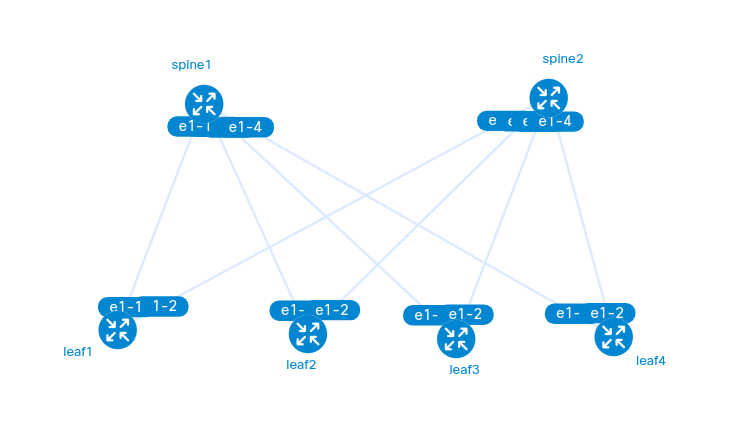
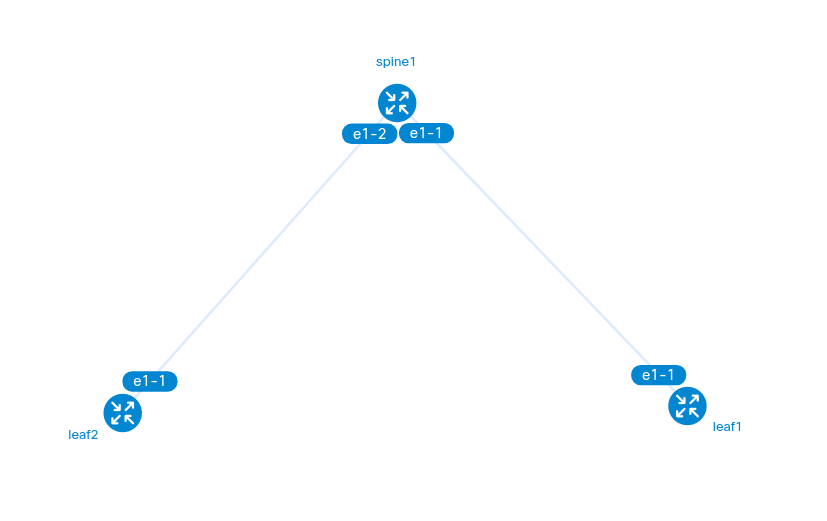
Scale lab topology from 6 to 3 devices (1 spine + 2 leaves) and update all documentation

diff --git a/src/backup.py b/src/backup.py
@@ -86,6 +86,31 @@ class ConfigBackup:
             f"Retention: {retention_days} days"
         )
 
+    def _substitute_env_vars(self, value: str) -> str:
+        """
+        Substitute environment variables in string values.
+
+        Replaces ${VAR_NAME} with the value of the environment variable VAR_NAME.
+
+        Args:
+            value: String that may contain environment variable placeholders
+
+        Returns:
+            String with environment variables substituted
+        """
+        if not isinstance(value, str):
+            return value
+
+        import re
+        # Match ${VAR_NAME} pattern
+        pattern = r'\$\{([^}]+)\}'
+
+        def replace_var(match):
+            var_name = match.group(1)
+            return os.environ.get(var_name, match.group(0))
+
+        return re.sub(pattern, replace_var, value)
+
     def _merge_device_settings(self, device: Dict[str, Any]) -> Dict[str, Any]:
         """
         Merge device-specific settings with global settings.
@@ -107,12 +132,14 @@ class ConfigBackup:
         # Create merged device config
         merged = device.copy()
 
-        # Add credentials from global settings if not in device
+        # Add credentials from global settings if not in device (with env var substitution)
         if 'username' not in merged:
-            merged['username'] = settings.get('default_username')
+            username = settings.get('default_username')
+            merged['username'] = self._substitute_env_vars(username)
 
         if 'password' not in merged:
-            merged['password'] = settings.get('default_password')
+            password = settings.get('default_password')
+            merged['password'] = self._substitute_env_vars(password)
 
         if 'timeout' not in merged:
             merged['timeout'] = settings.get('connection_timeout', 10)

diff --git a/netconfig.py b/netconfig.py
@@ -7,6 +7,15 @@ from datetime import datetime
 from pathlib import Path
 from typing import Dict, List, Any, Optional
 
+# Load environment variables from .env file
+try:
+    from dotenv import load_dotenv
+    env_path = Path(__file__).parent / '.env'
+    load_dotenv(dotenv_path=env_path)
+except ImportError:
+    # python-dotenv not installed, skip auto-loading
+    pass
+
 # Add project root to Python path
 project_root = Path(__file__).parent
 if str(project_root) not in sys.path:
@@ -59,7 +68,7 @@ Examples:
   netconfig backup --all
       Backup all devices in parallel
 
-  netconfig backup --device spine1 --device spine2
+  netconfig backup --device spine1 --device leaf1
       Backup specific devices
 
   netconfig backup --role spine --no-parallel

diff --git a/src/rollback.py b/src/rollback.py
@@ -850,7 +850,7 @@ class ConfigRollback:
         Example:
             devices_and_backups = [
                 (device1, "configs/backups/spine1_20250203_143022.cfg"),
-                (device2, "configs/backups/spine2_20250203_143025.cfg")
+                (device2, "configs/backups/leaf1_20250203_143025.cfg")
             ]
             results = rollback_mgr.rollback_multiple_devices(
                 devices_and_backups,

diff --git a/src/exceptions.py b/src/exceptions.py
@@ -85,7 +85,7 @@ class TimeoutError(Exception):
         device_name (str): Name or identifier of the device (optional)
 
     Example:
-        raise TimeoutError("Connection timeout after 30 seconds", device_name="spine2")
+        raise TimeoutError("Connection timeout after 30 seconds", device_name="spine1")
     """
 
     def __init__(self, message: str, device_name: str = None):

diff --git a/src/connection_manager.py b/src/connection_manager.py
@@ -80,6 +80,8 @@ class ConnectionManager:
             "password": self.device["password"],
             "timeout": self.device.get("timeout", 10),
             "session_log": None,  # Can be configured for debugging
+            "use_keys": False,  # Disable SSH key authentication
+            "allow_agent": False,  # Disable SSH agent
         }
 
         attempt = 0

diff --git a/src/deployment.py b/src/deployment.py
@@ -396,7 +396,7 @@ class ConfigDeployment:
             )
 
             # Deploy with device-specific variables
-            devices = [spine1, spine2]
+            devices = [spine1, leaf1]
             variables = [
                 {'ntp_server': '10.0.0.1', 'priority': 1},
                 {'ntp_server': '10.0.0.2', 'priority': 2}

diff --git a/lab/README.md b/lab/README.md
@@ -2,54 +2,45 @@
 
 ## Overview
 
-This Containerlab topology implements a realistic spine-leaf data center network using the Nokia SR Linux network operating system. The topology consists of 2 spine switches and 4 leaf switches, providing redundant connectivity suitable for testing network automation, SNMP monitoring, and modern data center networking protocols.
+This Containerlab topology implements a simplified spine-leaf data center network using the Nokia SR Linux network operating system. The topology consists of 1 spine switch and 2 leaf switches, providing a practical lab environment suitable for testing network automation, configuration management, and modern data center networking protocols.
 
 ## Topology Diagram
 
 ```text
-                    ┌──────────┐         ┌──────────┐
-                    │  spine1  │         │  spine2  │
-                    │172.21.20.11│       │172.21.20.12│
-                    └─────┬────┘         └─────┬────┘
-                          │                    │
-           ┌──────────────┼────────────────────┼──────────────┐
-           │              │                    │              │
-           │              │                    │              │
-      ┌────┴────┐    ┌────┴────┐         ┌────┴────┐    ┌────┴────┐
-      │  leaf1  │    │  leaf2  │         │  leaf3  │    │  leaf4  │
-      │172.21   │    │172.21   │         │172.21   │    │172.21   │
-      │  .20.13 │    │  .20.14 │         │  .20.15 │    │  .20.16 │
-      └─────────┘    └─────────┘         └─────────┘    └─────────┘
+                    ┌──────────┐
+                    │  spine1  │
+                    │172.21.20.11│
+                    └─────┬────┘
+                          │
+              ┌───────────┴───────────┐
+              │                       │
+         ┌────┴────┐             ┌────┴────┐
+         │  leaf1  │             │  leaf2  │
+         │172.21   │             │172.21   │
+         │  .20.13 │             │  .20.14 │
+         └─────────┘             └─────────┘
 
 ```
 
 ### Connectivity Matrix
 
-Each leaf switch is dual-homed to both spine switches for redundancy:
+Simple point-to-point connections from spine to leaf switches:
 
 | Leaf Switch | Interface | Connected To | Remote Interface |
 | --- | --- | --- | --- |
 | leaf1 | e1-1 | spine1 | e1-1 |
-| leaf1 | e1-2 | spine2 | e1-1 |
 | leaf2 | e1-1 | spine1 | e1-2 |
-| leaf2 | e1-2 | spine2 | e1-2 |
-| leaf3 | e1-1 | spine1 | e1-3 |
-| leaf3 | e1-2 | spine2 | e1-3 |
-| leaf4 | e1-1 | spine1 | e1-4 |
-| leaf4 | e1-2 | spine2 | e1-4 |
 
 ## Device Inventory
 
-| Hostname | Management IP | Role | Type | Purpose |
-| --- | --- | --- | --- | --- |
-| spine1 | 172.21.20.11 | Spine | ixr-d3l | Core aggregation switch |
-| spine2 | 172.21.20.12 | Spine | ixr-d3l | Core aggregation switch |
-| leaf1 | 172.21.20.13 | Leaf | ixr-d3l | Top-of-Rack access switch |
-| leaf2 | 172.21.20.14 | Leaf | ixr-d3l | Top-of-Rack access switch |
-| leaf3 | 172.21.20.15 | Leaf | ixr-d3l | Top-of-Rack access switch |
-| leaf4 | 172.21.20.16 | Leaf | ixr-d3l | Top-of-Rack access switch |
+| Hostname | Management IP | Role | Type | Memory | Purpose |
+| --- | --- | --- | --- | --- | --- |
+| spine1 | 172.21.20.11 | Spine | ixr-d3l | 1GB | Core aggregation switch |
+| leaf1 | 172.21.20.13 | Leaf | ixr-d3l | 1GB | Top-of-Rack access switch |
+| leaf2 | 172.21.20.14 | Leaf | ixr-d3l | 1GB | Top-of-Rack access switch |
 
 **Management Network:** 172.21.20.0/24
+**Total Memory Required:** ~3GB RAM (1GB per device)
 
 ## Prerequisites
 
@@ -84,9 +75,10 @@ containerlab version
 ```
 
 **System Resources**
-   * Minimum: 8GB RAM, 4 CPU cores
-   * Recommended: 16GB RAM, 8 CPU cores
-   * Disk space: ~10GB for images and containers
+   * Minimum: 4GB RAM, 2 CPU cores
+   * Recommended: 6GB RAM, 4 CPU cores
+   * Disk space: ~5GB for images and containers
+   * Per-device memory limit: 1GB (3GB total for 3 devices)
 
 ### Pull SR Linux Image
 
@@ -133,11 +125,8 @@ SSH to any device using the management IP:
 
 ```bash
 ssh admin@172.21.20.11  # spine1
-ssh admin@172.21.20.12  # spine2
 ssh admin@172.21.20.13  # leaf1
 ssh admin@172.21.20.14  # leaf2
-ssh admin@172.21.20.15  # leaf3
-ssh admin@172.21.20.16  # leaf4
 ```
 
 **Default Credentials:**
@@ -219,13 +208,13 @@ commit now
 
 After lab deployment, verify the topology:
 
-**From spine1, check LLDP neighbors (should see all 4 leaves):**
+**From spine1, check LLDP neighbors (should see both leaf switches):**
 ```bash
 ssh admin@172.21.20.11
 show system lldp neighbor
 ```
 
-**From leaf1, check LLDP neighbors (should see both spines):**
+**From leaf1, check LLDP neighbors (should see spine1):**
 ```bash
 ssh admin@172.21.20.13
 show system lldp neighbor
@@ -281,7 +270,7 @@ The topology references config files in the `../configs/` directory. If these do
 **Temporary fix: Comment out startup-config lines in topology.yaml or create placeholder config files:**
 ```bash
 mkdir -p ../configs
-touch ../configs/{spine1,spine2,leaf1,leaf2,leaf3,leaf4}.cfg
+touch ../configs/{spine1,leaf1,leaf2}.cfg
 ```
 
 #### 5. Port Conflicts

diff --git a/README.md b/README.md
@@ -113,7 +113,7 @@ The `netconfig.py` command provides a unified interface for all operations:
 python3 netconfig.py backup --all
 
 # Backup specific devices
-python3 netconfig.py backup --device spine1 --device spine2
+python3 netconfig.py backup --device spine1 --device leaf1
 
 # Backup by role
 python3 netconfig.py backup --role spine --parallel
@@ -227,11 +227,8 @@ network-config-manager/
 │   ├── backups/            # Stored backups (timestamped)
 │   ├── templates/          # Jinja2 templates (.j2 files)
 │   ├── spine1.cfg          # Baseline config for spine1
-│   ├── spine2.cfg          # Baseline config for spine2
 │   ├── leaf1.cfg           # Baseline config for leaf1
-│   ├── leaf2.cfg           # Baseline config for leaf2
-│   ├── leaf3.cfg           # Baseline config for leaf3
-│   └── leaf4.cfg           # Baseline config for leaf4
+│   └── leaf2.cfg           # Baseline config for leaf2
 │
 ├── docs/                   # Documentation
 │   └── NETCONFIG_USAGE.md  # Complete CLI usage guide
@@ -258,35 +255,46 @@ network-config-manager/
 
 ## Lab Topology
 
-Six-device SR Linux spine-leaf topology:
+Three-device SR Linux spine-leaf topology:
 
-![SR Linux spine-leaf topology with 2 spine switches and 4 leaf switches in a dual-homed configuration](docs/lab_topology.png)
+![SR Linux spine-leaf topology with 1 spine switch and 2 leaf switches](docs/lab_topology.png)
 
 ### Device Details
 
-| Device | Role  | IP Address    | Description |
-|--------|-------|---------------|-------------|
-| spine1 | spine | 172.20.20.11  | Core spine switch |
-| spine2 | spine | 172.20.20.12  | Core spine switch |
-| leaf1  | leaf  | 172.20.20.13  | Top-of-Rack switch |
-| leaf2  | leaf  | 172.20.20.14  | Top-of-Rack switch |
-| leaf3  | leaf  | 172.20.20.15  | Top-of-Rack switch |
-| leaf4  | leaf  | 172.20.20.16  | Top-of-Rack switch |
+| Device | Role  | IP Address    | Memory | Description |
+|--------|-------|---------------|--------|-------------|
+| spine1 | spine | 172.21.20.11  | 1GB    | Core spine switch |
+| leaf1  | leaf  | 172.21.20.13  | 1GB    | Top-of-Rack switch |
+| leaf2  | leaf  | 172.21.20.14  | 1GB    | Top-of-Rack switch |
 
-Each leaf is dual-homed to both spines for redundancy.
+Simple point-to-point connections from spine to each leaf switch.
+
+### Resource Considerations
+
+**Original Design:** The project architecture supports full spine-leaf topologies with multiple spines and leaves. The original design included 2 spines and 4 leaves (6 devices).
+
+**Current Configuration:** This implementation uses a scaled-down topology (1 spine + 2 leaves) to accommodate hardware resource constraints. Each SR Linux device requires approximately 1-2GB RAM, so the current 3-device setup needs ~3-4GB total RAM.
+
+**Scalability:** The codebase fully supports larger topologies. To scale up:
+- Edit [lab/topology.yaml](lab/topology.yaml) to add more devices
+- Update [inventory/devices.yaml](inventory/devices.yaml) accordingly
+- Ensure sufficient RAM (2GB per device recommended)
+- The automation scripts handle any number of devices through parallel execution
+
+**Note:** The reduced topology doesn't limit the project's functionality - all features (backup, deployment, rollback, parallel operations) work identically regardless of device count.
 
 ### Baseline Configurations
 
 The [configs/](configs/) directory includes baseline configuration files for all lab devices:
 
-- **Spine configurations** ([spine1.cfg](configs/spine1.cfg), [spine2.cfg](configs/spine2.cfg))
-  - 4 uplink interfaces (ethernet-1/1 to ethernet-1/4) connected to leaf switches
-  - Management interface with static IP (172.21.20.11-12/24)
+- **Spine configuration** ([spine1.cfg](configs/spine1.cfg))
+  - 2 uplink interfaces (ethernet-1/1 to ethernet-1/2) connected to leaf switches
+  - Management interface with static IP (172.21.20.11/24)
   - System information and interface descriptions
 
-- **Leaf configurations** ([leaf1.cfg](configs/leaf1.cfg), [leaf2.cfg](configs/leaf2.cfg), [leaf3.cfg](configs/leaf3.cfg), [leaf4.cfg](configs/leaf4.cfg))
-  - 2 uplink interfaces (ethernet-1/1 to ethernet-1/2) dual-homed to spines
-  - Management interface with static IP (172.21.20.13-16/24)
+- **Leaf configurations** ([leaf1.cfg](configs/leaf1.cfg), [leaf2.cfg](configs/leaf2.cfg))
+  - 1 uplink interface (ethernet-1/1) connected to spine
+  - Management interface with static IP (172.21.20.13-14/24)
   - System information and interface descriptions
 
 These files serve as:

diff --git a/docs/NETCONFIG_USAGE.md b/docs/NETCONFIG_USAGE.md
@@ -57,7 +57,7 @@ netconfig backup [options]
 netconfig backup --all
 
 # Backup specific devices
-netconfig backup --device spine1 --device spine2
+netconfig backup --device spine1 --device leaf1
 
 # Backup all spine devices sequentially
 netconfig backup --role spine --no-parallel
@@ -160,7 +160,7 @@ netconfig rollback --device spine1 --latest
 netconfig rollback --device spine1 --backup configs/backups/spine1_20250203_143022.cfg
 
 # Rollback multiple devices to latest
-netconfig rollback --device spine1 --device spine2 --latest
+netconfig rollback --device spine1 --device leaf1 --latest
 
 # Rollback all spine devices
 netconfig rollback --role spine --latest
